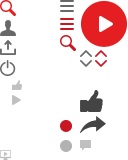
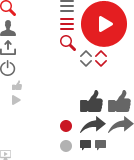
icon的hover状态添加

diff --git a/20140514-jd-video/css/play.css b/20140514-jd-video/css/play.css
@@ -1,5 +1,5 @@
 /*sprites*/
-.video-info .video-opt span i,
+.video-info .video-opt a i,
 .video-comment .comment-list li .comment-post i
 {background: url(../img/icons.png) no-repeat;}
 
@@ -14,10 +14,13 @@
 .video-info .video-title{font-size: 24px; line-height: 28px; margin-bottom: 18px;}
 .video-info .video-player{margin-bottom: 15px;}
 .video-info .video-opt{border-bottom: 1px solid #D2D2D2; margin-bottom: 10px;}
-.video-info .video-opt span{cursor: pointer; display: inline-block; text-align: center; line-height: 24px;}
-.video-info .video-opt span i{width: 23px; height: 22px; background-position: -80px -90px; display: block; margin: 0 auto; *margin: 0;}
+.video-info .video-opt a{display: inline-block; text-align: center; line-height: 24px; text-decoration: none;}
+.video-info .video-opt a i{width: 23px; height: 22px; background-position: -80px -90px; display: block; margin: 0 auto; *margin: 0;}
+.video-info .video-opt a:hover{color: #666;}
+.video-info .video-opt a:hover i{background-position: -108px -90px;}
 .video-info .video-opt .share i{width: 26px; height: 18px; background-position: -80px -115px; margin-bottom: 2px;}
-.video-info .video-opt .praise-num{height: 35px; line-height: 35px; position: relative; top: -15px; cursor: default; padding: 0 8px; border-left: 1px solid #F1F1F1; margin: 0 40px 0 3px; font-size: 14px; font-weight: bold;}
+.video-info .video-opt .share:hover i{background-position: -108px -115px;}
+.video-info .video-opt .praise-num{height: 35px; line-height: 35px; position: relative; top: -15px; padding: 0 8px; border-left: 1px solid #F1F1F1; margin: 0 40px 0 3px; font-size: 14px; font-weight: bold;}
 
 .video-comment{}
 .video-comment .hd{color: #666; font-size: 18px; margin: 10px 0; font-weight: bold;}
@@ -37,7 +40,10 @@
 .video-comment .comment-list li .user .time{color: #999; margin-left: 6px;}
 .video-comment .comment-list li .txt{margin-top: 5px; line-height: 21px;}
 .video-comment .comment-list li .comment-post{position: absolute; right: 0; top: 39px;}
+.video-comment .comment-list li .comment-post a{text-decoration: none;}
 .video-comment .comment-list li .comment-post i{width: 11px; height: 11px; background-position: -80px -140px; display: block; float: left; margin: 4px 3px 0 0;}
+.video-comment .comment-list li .comment-post a:hover{color: #666;}
+.video-comment .comment-list li .comment-post a:hover i{background-position: -95px -140px;}
 .video-comment .comment-list .children{margin: 15px -45px 5px 0;}
 .video-comment .comment-list .children .comment-opt .user-avatar{position: relative; top: 0;}
 .video-comment .comment-list .children li{padding: 15px 0 15px 33px; border-top: 1px solid #E8E8E8; border-bottom: 0;}

diff --git a/20140514-jd-video/css/upload.css b/20140514-jd-video/css/upload.css
@@ -24,7 +24,7 @@
 .upload-video .upload-details .line{display: block; width: 1px; height: 910px; background-color: #D2D2D2; position: absolute; left: 64px; top: 0;}
 .upload-video .upload-details li{padding-left: 94px; position: relative; min-height: 64px; _height: 64px; margin-bottom: 40px; clear: both;}
 .upload-video .upload-details li .num{width: 64px; height: 64px; display: block; position: absolute; left: 0; top: 0; background-color: #EEE; color: #FFF; text-align: center; line-height: 64px; font-size: 48px;}
-.upload-video .upload-details .upload-btn{width: 215px; height: 55px; background-color: #E51E21; display: block; color: #FFF; text-align: center; line-height: 55px; font-size: 22px; text-decoration: none;}
+.upload-video .upload-details .upload-btn{width: 215px; height: 55px; background-color: #E51E21; line-height: 55px; font-size: 22px;}
 .upload-video .upload-details .upload-btn:hover{background-color: #c91623;}
 .upload-video .upload-details .upload-btn i{width: 21px; height: 17px; background-position: -80px -70px; display: inline-block; margin-left: 8px;}
 .upload-video .upload-details .upload-cover{width: 398px; height: 218px; border: 1px dashed #D2D2D2; background-color: #FFF;}

diff --git a/20140514-jd-video/upload.html b/20140514-jd-video/upload.html
@@ -90,14 +90,14 @@
           <ul>
             <li class="step1">
               <span class="num">1</span>
-              <a href="#" class="upload-btn" target="_self">上传视频<i></i></a>
+              <a href="#" class="btn-red upload-btn" target="_self">上传视频<i></i></a>
             </li>
             <li class="step2">
               <span class="num">2</span>
               <div class="upload-cover">
                 <p class="title"><em class="sign-require">*</em>封面图片</p>
                 <div class="upload-area">
-                  <a href="#" class="upload-btn" target="_self">选择上传图片</a>
+                  <a href="#" class="btn-gray upload-btn" target="_self">选择上传图片</a>
                   <p class="tip">
                     <span>尺寸：400PX<em>x</em>224PX</span>
                     <span>格式：JPG、PNG、JPEG</span>

diff --git a/20140514-jd-video/play.html b/20140514-jd-video/play.html
@@ -71,9 +71,9 @@
           <img src="img/test/player.jpg" alt="" />
         </div>
         <div class="video-opt">
-          <span class="praise"><i></i>赞一下</span>
+          <a href="#" class="praise"><i></i>赞一下</a>
           <span class="praise-num">34</span>
-          <span class="share"><i></i>分享</span>
+          <a href="#" class="share"><i></i>分享</a>
         </div>
         <div class="album-list clearfix">
           <ul>
